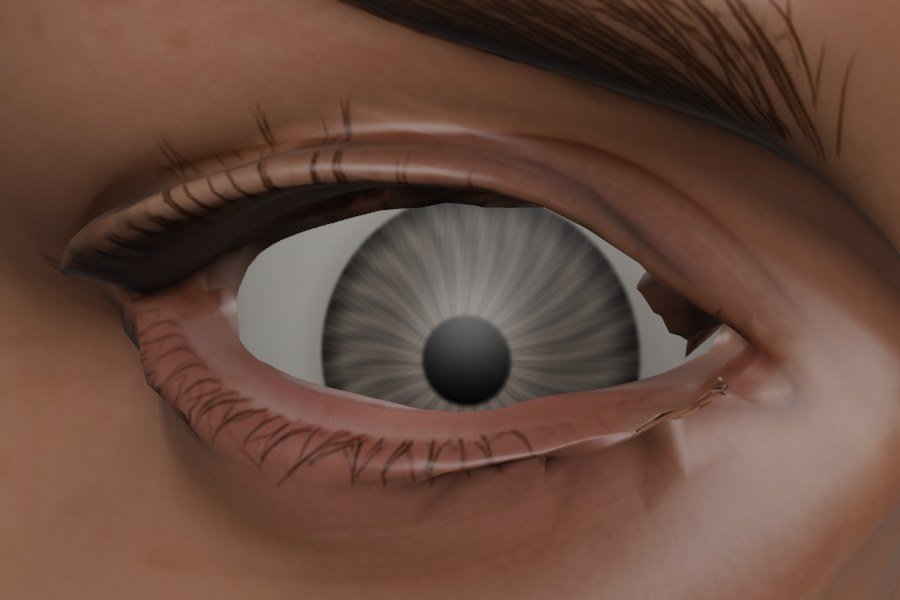
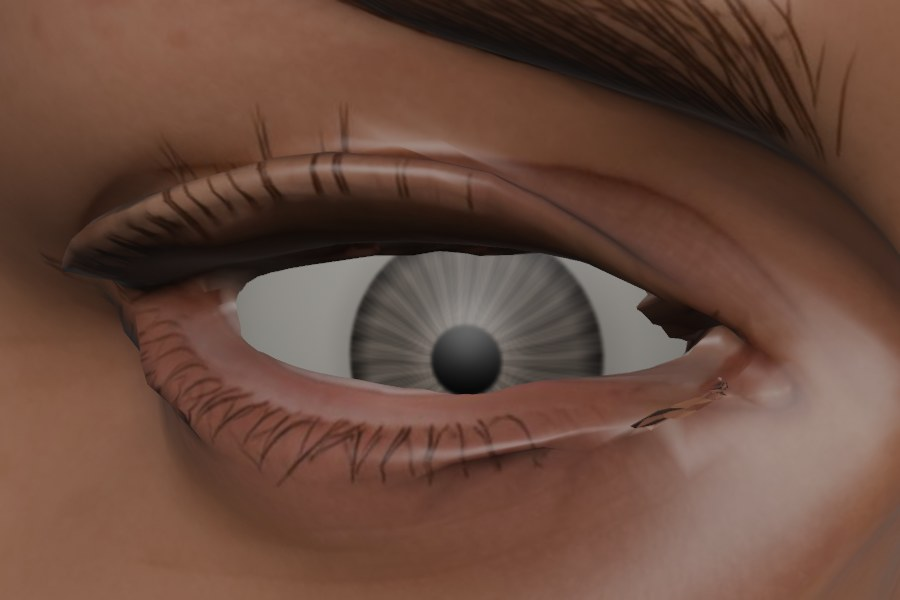
WarriorF's eyes at ease, not staring (Moti: 'She has crazy eyes', her iris too big beside WarriorM's). eyes.py draws the iris and pupil their real size (11.5 mm, 3 mm) on any eyeball, not as an angle (her eyeball fitted 14.6 mm wore a 14.6 mm iris); rest_lids rests a head's lids part way shut, Blink

Changed region(s): [[0.1867, 0.18, 0.84, 0.84], [0.5911, 0.21, 0.7467, 0.36]]

diff --git a/ai_models/eyes.py b/ai_models/eyes.py
@@ -395,8 +395,19 @@ def cut(bm, middle, radius, surface_y, eyeball):
 
 
 RINGS, SEGMENTS = 28, 48     # the eyeball's rings from its front to its back, and its segments round its axis
-LIMBUS = math.radians(30)    # where the iris meets the white, from the front (a 6 mm iris on a 12 mm eye)
-PUPIL = math.radians(7.5)    # the pupil's edge (a 3 mm pupil)
+IRIS = 0.00575               # the iris's radius (metres): a real eye's 11.5 mm iris, however big the eyeball is fitted
+PUPIL_RADIUS = 0.0015        # the pupil's (a 3 mm pupil)
+
+
+def limbus(radius):
+    """Where the iris meets the white, from the front (radians), on an eyeball of radius: 29 degrees on WarriorM's
+    11.9 mm, 23 on WarriorF's 14.6 (as an angle alone, her larger eyeball wore a 14.6 mm iris: her stare)."""
+    return math.asin(min(IRIS / radius, 0.95))
+
+
+def pupil_edge(radius):
+    """The pupil's edge, from the front (radians), on an eyeball of radius."""
+    return math.asin(min(PUPIL_RADIUS / radius, 0.95))
 BULGE = 0.06                 # the cornea's rise over the sphere at its middle, a share of the radius (0.7 mm of 12)
 EYE_TEXTURE = 1024
 
@@ -414,8 +425,10 @@ def eyeball(bm, centre, radius, forward, side, material):
     shapes = list(bm.verts.layers.shape.values())
     eye_layer = bm.faces.layers.int.get("eye") or bm.faces.layers.int.new("eye")
 
+    rim = limbus(radius)
+
     def point(theta, phi):
-        lift = BULGE * (1 - (theta / LIMBUS) ** 2) ** 2 if theta < LIMBUS else 0.0
+        lift = BULGE * (1 - (theta / rim) ** 2) ** 2 if theta < rim else 0.0
         d = f * math.cos(theta) + (u * math.cos(phi) + v * math.sin(phi)) * math.sin(theta)
         return Vector(centre) + d * radius * (1 + lift)
 
@@ -554,7 +567,7 @@ def blink(bm, lids):
             # inside lies within the eyeball, hidden): its rise over the sphere at this far from where it can face.
             away = shut_at[v] - c
             theta = max(away.angle(Vector((0.0, -1.0, 0.0)), 0.0) - LOOK_REACH, 0.0)
-            cornea = r * (1 + (BULGE * (1 - (theta / LIMBUS) ** 2) ** 2 if theta < LIMBUS else 0.0))
+            cornea = r * (1 + (BULGE * (1 - (theta / limbus(r)) ** 2) ** 2 if theta < limbus(r) else 0.0))
             if away.length < cornea + CLEAR:
                 shut_at[v] = c + away.normalized() * (cornea + CLEAR)
         for v, shut in shut_at.items():
@@ -563,11 +576,13 @@ def blink(bm, lids):
     return report
 
 
-def eye_texture(iris, size=EYE_TEXTURE, seed=7):
-    """The eyeball's colour map (rows bottom-up, RGB 0..1, sRGB-encoded) for an iris of colour iris (sRGB 0..1): the
+def eye_texture(iris, radius, size=EYE_TEXTURE, seed=7):
+    """The eyeball's colour map (rows bottom-up, RGB 0..1, sRGB-encoded) for an iris of colour iris (sRGB 0..1), on
+    eyeballs of radius (metres; the iris and pupil are drawn their real size on it): the
     white, faintly warm and a little shaded toward the iris's rim and the back; the iris in fibres running out from the
     pupil, darker at its rim, lighter round the pupil; the pupil black. Laid as eyeball() lays its texture."""
     rng = np.random.default_rng(seed)
+    LIMBUS, PUPIL = limbus(radius), pupil_edge(radius)
     y, x = np.mgrid[0:size, 0:size]
     dx, dy = (x + 0.5) / size - 0.5, (y + 0.5) / size - 0.5
     theta = np.hypot(dx, dy) * 2 * math.pi
@@ -670,7 +685,24 @@ def save_map(array, path, space):
     return image
 
 
-def give_eyes(head, image, title, maps, checks, nose):
+def rest_lids(bm, share):
+    """The lids made at rest share of the way shut (0: as the AI made them), Blink still shutting them all the way: an
+    AI that opens its eyes wide (WarriorF: 9.5 mm tall against WarriorM's 7, white all round the iris, a stare) rests
+    its upper lids over the iris's top, as a face at ease does. Every other shape key moves with it."""
+    if not share:
+        return
+    key = bm.verts.layers.shape[BLINK]
+    others = [layer for name, layer in bm.verts.layers.shape.items() if name != BLINK]
+    for v in bm.verts:
+        moved = (v[key] - v.co) * share
+        if moved.length_squared == 0.0:
+            continue
+        v.co += moved
+        for layer in others:
+            v[layer] += moved
+
+
+def give_eyes(head, image, title, maps, checks, nose, lid_rest=0.0):
     """The head's painted eyes opened and eyeballs of their own put in (head: the mesh object, in its final frame:
     metres, front -y, up z; image: its colour map; nose: its nose tip). The eyeballs wear a material named
     <title>Eyes, the head's last slot, whose maps go to maps: <title>Eyes_Color.png (the iris the painted one's colour)
@@ -737,6 +769,8 @@ def give_eyes(head, image, title, maps, checks, nose):
             for k, side in enumerate(("right", "left"))}
     for side, shut in blink(bm, lids).items():
         report[side]["blink"] = shut
+    rest_lids(bm, lid_rest)
+    report["lid_rest"] = lid_rest
     bm.to_mesh(head.data)
     bm.free()
     for layer in ("eye", LID):
@@ -749,7 +783,8 @@ def give_eyes(head, image, title, maps, checks, nose):
     irises = [report[s]["iris_rgb"] for s in ("right", "left") if report[s]["iris_rgb"]]
     iris = np.mean(irises, 0) if irises else np.array([0.35, 0.28, 0.2])
     report["iris_rgb"] = np.round(iris, 3).tolist()
-    colour_map = save_map(eye_texture(iris), os.path.join(maps, f"{title}Eyes_Color.png"), "sRGB")
+    mean_radius = sum(report[side]["eyeball"]["radius_mm"] for side in ("right", "left")) / 2000
+    colour_map = save_map(eye_texture(iris, mean_radius),os.path.join(maps, f"{title}Eyes_Color.png"), "sRGB")
     shine = np.zeros((64, 64, 4), np.float32)
     shine[..., 3] = SHINE
     bpy.data.images.remove(save_map(shine, os.path.join(maps, f"{title}Eyes_MetallicSmoothness.png"), "Non-Color"))

diff --git a/ai_models/head.py b/ai_models/head.py
@@ -133,7 +133,9 @@ def save(array, path, fmt, alpha):
 # Eyes of their own (eyes.py): the painted ones opened, eyeballs put in, in a material of their own (<Title>Eyes).
 from eyes import give_eyes, eye_pictures
 skin = image_of("Base Color")
-eyes = give_eyes(head, skin, TITLE, OUT, os.path.join(ROOT, "checks"), nose_tip)
+# <name>/model.json (optional): "lid_rest", how far shut the lids rest (eyes.py rest_lids; WarriorF 0.3).
+SPEC = json.load(open(os.path.join(ROOT, "model.json"))) if os.path.exists(os.path.join(ROOT, "model.json")) else {}
+eyes = give_eyes(head, skin, TITLE, OUT, os.path.join(ROOT, "checks"), nose_tip, SPEC.get("lid_rest", 0.0))
 eye_pictures(head, skin, eyes, os.path.join(ROOT, "checks"))
 print("EYES", json.dumps(eyes))
 # The size cross-checked by the eyes: their spacing over the chin to the crown is a face's proportion, so a chin found
